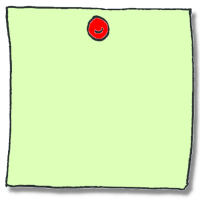
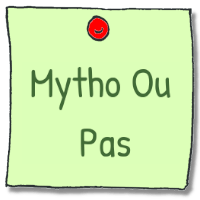
Change image webp into png

Changed region(s): [[0.15, 0.33, 0.6, 0.57], [0.39, 0.63, 0.66, 0.81], [0.66, 0.33, 0.87, 0.51]]

diff --git a/src/screens/criminals/InvestigationScreen.tsx b/src/screens/criminals/InvestigationScreen.tsx
@@ -92,8 +92,8 @@ const InvestigationScreen = () => {
     );
 
     return (
-        <View style={tw('flex-1')}>
-            <ImageBackground source={require('images/bg_corridor_dark.webp')} style={tw('flex-1')} resizeMode="cover">
+        <ImageBackground source={require('images/bg_corridor_dark.jpg')} style={tw('flex-1')} resizeMode="cover">
+            <SafeAreaView style={tw('flex-1')}>
                 <SafeAreaView style={tw('flex-1')}>
                     <ScrollView contentContainerStyle={tw("flex-grow justify-center items-center")} style={tw('w-full')} >
                         <CustomHeaderEmpty title="Enquête en cours" backgroundColor="bg-whiteTransparent" />
@@ -107,10 +107,10 @@ const InvestigationScreen = () => {
                                 >
                                     <Image
                                         source={require('images/unknown3.jpeg')}
-                                        style={[tw('w-64 h-56')]}
+                                        style={[tw('w-64 h-44')]}
                                         resizeMode="contain"
                                     />
-                                    <Text style={tw('text-center font-bold font-primary text-lg text-white')}>Taux de certitude par rapport au criminel: {investigationProgress}%</Text>
+                                    <Text style={tw('text-center font-primary text-lg text-white')}>Taux de certitude par rapport au criminel: {investigationProgress}%</Text>
                                     <View style={tw('bg-gray-300 h-4 rounded mt-2 w-96')}>
                                         <View
                                             style={[
@@ -124,7 +124,7 @@ const InvestigationScreen = () => {
                                         style={tw('bg-primary py-3 px-6 rounded mt-4')}
                                         onPress={() => setModalVisible(true)}
                                     >
-                                        <Text style={tw('text-white font-bold text-center font-primary')}>Tenter l'arrestation</Text>
+                                        <Text style={tw('text-white text-center font-primary')}>Tenter l'arrestation</Text>
                                     </TouchableOpacity>
                                 </View>
                             ) : (
@@ -135,70 +135,65 @@ const InvestigationScreen = () => {
 
                     </ScrollView>
                 </SafeAreaView>
-            </ImageBackground>
-            <CustomModal
-                isVisible={modalVisible}
-                onClose={() => setModalVisible(false)}
-            >
-                <View >
-                    <Text style={tw('text-lg font-primary')}>Etes-vous sûr de vouloir tenter l'arrestation?</Text>
-                    <Text style={tw('text-lg font-primary')}>Si celle-ci échoue, votre taux de certitude baissera de 15%.</Text>
-                    <TouchableOpacity onPress={handleArrestAttempt} style={tw('mt-5 bg-primary py-3 px-6 rounded self-center')}>
-                        <Text style={tw('text-white font-bold text-center font-primary')}>Je suis sûr de moi, je me lance</Text>
-                    </TouchableOpacity>
-                </View>
-            </CustomModal>
-
-            <CustomModal isVisible={resultModalVisible} onClose={() => setResultModalVisible(false)}>
-                {arrestSuccess === true ? (
-                    <>
-                        <Text style={tw('font-primary text-lg')}>
-                            {arrestDescription}
-                        </Text>
-                        <TouchableOpacity
-                            onPress={() => {
-                                setResultModalVisible(false);
-                                setTimeout(() => {
-                                    navigation.navigate('Criminels');
-                                }, 300);
-                            }}
-                            style={tw('mt-5 bg-primary py-3 px-6 rounded self-center')}
-                        >
-                            <Text style={tw('text-white font-bold text-center')}>Voir le criminel</Text>
+                <CustomModal
+                    isVisible={modalVisible}
+                    onClose={() => setModalVisible(false)}
+                >
+                    <View >
+                        <Text style={tw('text-lg font-primary')}>Etes-vous sûr de vouloir tenter l'arrestation?</Text>
+                        <Text style={tw('text-lg font-primary')}>Si celle-ci échoue, votre taux de certitude baissera de 15%.</Text>
+                        <TouchableOpacity onPress={handleArrestAttempt} style={tw('mt-5 bg-primary py-3 px-6 rounded self-center')}>
+                            <Text style={tw('text-white font-bold text-center font-primary')}>Je suis sûr de moi, je me lance</Text>
                         </TouchableOpacity>
-                    </>
-                ) : (
-                    <>
-                        <Text style={tw('font-primary text-lg')}>
-                            Il semblerait que la personne que vous avez arrêtée n'était pas la bonne. C'était une fausse piste, mais votre enquête continue !
-                        </Text>
-                    </>
-                )}
-            </CustomModal>
+                    </View>
+                </CustomModal>
 
-            <CustomModal
-                isVisible={isHelpModalVisible}
-                onClose={() => setIsHelpModalVisible(false)}
-            >
-                <View style={tw('flex-1')}>
-                    <ScrollView
-                        style={[tw('flex-1 max-w-3xl')]}
-                        contentContainerStyle={tw('p-4')}
-                        showsVerticalScrollIndicator={true}
-                        scrollEventThrottle={16}
-                    >
-                        <Text style={tw('font-primary')}>
-                            Ici, vous pouvez tenter d'arrêter des criminels.  {"\n"}
-                            Le taux de certitude correspond au pourcentage de chance de réussir.
-                            {"\n\n"}
-                            Si vous tentez l'arrestation mais que celle-ci échoue, votre taux de certitude baissera de 15. Si elle réussit, vous pourrez retrouver le criminel arrêté dans la page correspondante, et votre votre taux de certitude retombera à 0.
-                        </Text>
-                    </ScrollView>
-                </View>
-            </CustomModal>
+                <CustomModal isVisible={resultModalVisible} onClose={() => setResultModalVisible(false)}>
+                    {arrestSuccess === true ? (
+                        <>
+                            <Text style={tw('font-primary text-lg')}>
+                                {arrestDescription}
+                            </Text>
+                            <TouchableOpacity
+                                onPress={() => {
+                                    setResultModalVisible(false);
+                                    setTimeout(() => {
+                                        navigation.navigate('Criminels');
+                                    }, 300);
+                                }}
+                                style={tw('mt-5 bg-primary py-3 px-6 rounded self-center')}
+                            >
+                                <Text style={tw('text-white font-bold text-center')}>Voir le criminel</Text>
+                            </TouchableOpacity>
+                        </>
+                    ) : (
+                        <>
+                            <Text style={tw('font-primary text-lg')}>
+                                Il semblerait que la personne que vous avez arrêtée n'était pas la bonne. C'était une fausse piste, mais votre enquête continue !
+                            </Text>
+                        </>
+                    )}
+                </CustomModal>
 
-
-        </View>
+                <CustomModal
+                    isVisible={isHelpModalVisible}
+                    onClose={() => setIsHelpModalVisible(false)}
+                >
+                    <View style={tw('h-40')}>
+                        <ScrollView style={[tw('flex-1'), { maxHeight: window.height * 0.8 }]}>
+                            <View style={tw('p-4')}>
+                                <Text style={tw('font-primary')}>
+                                    Ici, vous pouvez tenter d'arrêter des criminels.  {"\n"}
+                                    Le taux de certitude correspond au pourcentage de chance de réussir.
+                                    {"\n\n"}
+                                    Si vous tentez l'arrestation mais que celle-ci échoue, votre taux de certitude baissera de 15. Si elle réussit, vous pourrez retrouver le criminel arrêté dans la page correspondante, et votre votre taux de certitude retombera à 0.
+                                </Text>
+                            </View>
+                        </ScrollView>
+                    </View>
+                </CustomModal>
+            </SafeAreaView>
+        </ImageBackground>
     );
 };
 export default InvestigationScreen;

diff --git a/src/screens/MainBoardScreen.tsx b/src/screens/MainBoardScreen.tsx
@@ -173,7 +173,7 @@ const MainBoardScreen = ({ }) => {
         <View style={{ flex: 1 }}>
             {isLoading && <Loader />}
             <ImageBackground
-                source={require('images/bg_desk_smaller.webp')}
+                source={require('images/bg_desk_smaller.jpg')}
                 onLoadEnd={loaderClose}
                 style={[tw('flex-1 relative'), StyleSheet.absoluteFill]}
             >
@@ -277,13 +277,6 @@ const MainBoardScreen = ({ }) => {
                                             width: windowWidth * 0.07, height: windowWidth * 0.07, minWidth: 65, minHeight: 65,
                                         }}
                                     />
-                                    <Text style={[tw('font-secondary absolute bottom-[37%] w-full text-center text-[#236087]'),
-                                    {
-                                        fontSize: responsiveFontSize(17)
-                                    }
-                                    ]}>
-                                        Mytho-Typo
-                                    </Text>
                                     {tutorialsCompleted && !tutorialsCompleted["MythoTypo"] &&
                                         <IconNotification
                                             size={iconSize}
@@ -308,11 +301,6 @@ const MainBoardScreen = ({ }) => {
                                     }}
                                     resizeMode="contain"
                                 />
-                                <Text style={{
-                                    ...tw('absolute bottom-[14%] left-[1px] w-full text-center font-secondary text-[#416B36]'),
-                                    fontSize: responsiveFontSize(20)
-                                }}>Mytho Ou {"\n"}
-                                    Pas</Text>
                                 {tutorialsCompleted && !tutorialsCompleted["MythoOuPas"] &&
                                     <IconNotification
                                         size={iconSize}
@@ -333,10 +321,6 @@ const MainBoardScreen = ({ }) => {
                                     width: windowWidth * 0.07, height: windowWidth * 0.07, minWidth: 65, minHeight: 65,
 
                                 }} />
-                                <Text style={{
-                                    ...tw('absolute bottom-[37%] w-full text-center font-secondary text-[#236087]'),
-                                    fontSize: responsiveFontSize(19)
-                                }}>Mytho-No</Text>
                                 {tutorialsCompleted && !tutorialsCompleted["MythoNo"] &&
                                     <IconNotification
                                         size={iconSize}
@@ -354,7 +338,7 @@ const MainBoardScreen = ({ }) => {
                                 width: windowWidth * 0.25,
                                 height: windowWidth * 0.16,
                             }}>
-                                <Image source={require('images/tabs_winners.webp')} style={{
+                                <Image source={require('images/tabs_winners.png')} style={{
                                     width: windowWidth * 0.25,
                                     height: windowWidth * 0.16,
                                     resizeMode: 'contain',

diff --git a/src/screens/settingsScreens/SettingsScreen.tsx b/src/screens/settingsScreens/SettingsScreen.tsx
@@ -4,13 +4,14 @@ import { useTailwind } from "tailwind-rn";
 import PrimaryButton from "components/PrimaryButton";
 import CustomHeaderEmpty from "components/header/CustomHeaderEmpty";
 import { useAuth } from "services/context/AuthContext";
+import LogoutButton from "components/LogoutButton";
 
 const SettingsScreen = ({ }) => {
     const tw = useTailwind();
     const { authState } = useAuth();
 
     return (
-        <ImageBackground source={require('images/bg_corridor_dark.webp')} style={tw('flex-1')}>
+        <ImageBackground source={require('images/bg_corridor.jpg')} style={tw('flex-1')}>
             <View style={tw("flex-1 ")}>
                 <ScrollView contentContainerStyle={tw("flex-grow justify-center items-center")} style={tw('w-full')}>
                     <CustomHeaderEmpty title="Paramètres" backgroundColor="bg-whiteTransparent" />
@@ -22,11 +23,11 @@ const SettingsScreen = ({ }) => {
                                 <PrimaryButton title="Aide et contact" destination="Aide" />
                                 <PrimaryButton title="Politique de confidentialité" destination="PolitiqueDeConfidentialite" />
 
-                                {/* {authState.isAuthenticated &&
+                                {authState.isAuthenticated &&
                                     <View>
-                                        <PrimaryButton title="Notifications" destination="Notif" />
+                                        <LogoutButton />
                                     </View>
-                                } */}
+                                }
                             </View>
                         </View>
                     </View>

diff --git a/src/screens/gamesScreens/MythoOuPasScreen.tsx b/src/screens/gamesScreens/MythoOuPasScreen.tsx
@@ -535,7 +535,7 @@ const MythoOuPasScreen = () => {
 
 
   return (
-    <ImageBackground source={require('images/bg_room_2.webp')} style={tw('flex-1')}>
+    <ImageBackground source={require('images/bg_room_2.jpg')} style={tw('flex-1')}>
       <SafeAreaView style={tw("flex-1")}>
         <ScrollView ref={scrollViewRef}>
           <CustomHeaderInGame title="Mytho ou pas" backgroundColor="bg-whiteTransparent" />
@@ -745,7 +745,7 @@ const MythoOuPasScreen = () => {
                     setIsModalPlausibilityVisible(true);
                     setUserRateSelected(50);
                   }}  >
-                  <AntDesign name="question" size={30} color="orange" />
+                  <Entypo name="minus" size={24} color="orange" />
                 </TouchableOpacity>
 
                 <TouchableOpacity style={tw('items-center justify-center rounded-full w-12 h-12 md:w-14 md:h-14 my-auto bg-green-50')}

diff --git a/src/screens/gamesScreens/MythoTypoScreen.tsx b/src/screens/gamesScreens/MythoTypoScreen.tsx
@@ -361,7 +361,7 @@ const MythoTypoScreen = ({ }) => {
   };
 
   return (
-    <ImageBackground source={require('images/bg_room_1.webp')} style={tw('flex-1')}>
+    <ImageBackground source={require('images/bg_room_1.jpg')} style={tw('flex-1')}>
       <SafeAreaView style={tw("flex-1")}>
         <ScrollView>
           <CustomHeaderInGame title="Mytho-Typo" backgroundColor="bg-whiteTransparent" />
@@ -426,7 +426,7 @@ const MythoTypoScreen = ({ }) => {
               style={tw("bg-primary py-2 px-4 flex-row items-center justify-center rounded-full")}
               onPress={onNextCard}
             >
-              <Text style={tw("text-white text-lg font-primary")}>Erreur suivante</Text>
+              <Text style={tw("text-white text-lg font-primary")}>Cas suivant</Text>
               <MaterialIcons name="navigate-next" size={24} color={'white'} />
             </TouchableOpacity>
           </View>

diff --git a/src/screens/profilScreens/AchievementsScreen.tsx b/src/screens/profilScreens/AchievementsScreen.tsx
@@ -26,7 +26,7 @@ const AchievementsScreen = () => {
 
     return (
         <ImageBackground
-            source={require('images/bg_bureau.webp')}
+            source={require('images/bg_office.jpg')}
             style={tw("absolute bottom-0 left-0 w-full h-full")}
             resizeMode="cover"
         >
@@ -48,7 +48,7 @@ const AchievementsScreen = () => {
                     </View>
                 )}
                 keyExtractor={(item) => item.id.toString()}
-                contentContainerStyle={tw('p-4')}
+                contentContainerStyle={tw('pb-20')} 
             />
         </ImageBackground>
 

diff --git a/src/screens/authScreens/ForgetPasswordScreen.tsx b/src/screens/authScreens/ForgetPasswordScreen.tsx
@@ -38,7 +38,7 @@ const ForgetPasswordScreen = () => {
     };
 
     return (
-        <ImageBackground source={require('images/bg_room_1.webp')} style={tw('absolute bottom-0 left-0 w-full h-full')}>
+        <ImageBackground source={require('images/bg_room_1.jpg')} style={tw('absolute bottom-0 left-0 w-full h-full')}>
             <View style={tw("flex-1 items-center")}>
                 <ScrollView contentContainerStyle={tw("flex-grow justify-center items-center")} style={tw('w-full')}>
                     <CustomHeaderEmpty title="Mot de passe oublié" backgroundColor="bg-whiteTransparent" />

diff --git a/src/screens/settingsScreens/HelpScreen.tsx b/src/screens/settingsScreens/HelpScreen.tsx
@@ -59,7 +59,7 @@ const HelpScreen = () => {
   };
 
   return (
-    <ImageBackground source={require('images/bg_corridor_dark.webp')} style={tw('absolute bottom-0 left-0 w-full h-full')}>
+    <ImageBackground source={require('images/bg_corridor.jpg')} style={tw('absolute bottom-0 left-0 w-full h-full')}>
       <ScrollView contentContainerStyle={tw("flex-grow justify-center items-center")} style={tw('w-full')}>
         <CustomHeaderEmpty title="Aide et contact" backgroundColor="bg-whiteTransparent" />
         <View style={tw('mx-auto w-full max-w-[640px] pt-20 items-center')}>

diff --git a/src/screens/authScreens/SignUpScreen.tsx b/src/screens/authScreens/SignUpScreen.tsx
@@ -155,7 +155,7 @@ const SignUpScreen = () => {
 
 
     return (
-        <ImageBackground source={require('images/bg_bureau.webp')} style={tw('absolute bottom-0 left-0 w-full h-full')}>
+        <ImageBackground source={require('images/bg_office.jpg')} style={tw('absolute bottom-0 left-0 w-full h-full')}>
             <View style={tw("flex-1 items-center")}>
                 <ScrollView contentContainerStyle={tw("flex-grow justify-center items-center")} style={tw('w-full')}>
                     <CustomHeaderEmpty title="Inscription" backgroundColor="bg-whiteTransparent" />

diff --git a/src/screens/authScreens/SignInScreen.tsx b/src/screens/authScreens/SignInScreen.tsx
@@ -54,7 +54,7 @@ const LoginScreen = () => {
 
     return (
 
-        <ImageBackground source={require('images/bg_room_1.webp')} style={tw('absolute bottom-0 left-0 w-full h-full')}>
+        <ImageBackground source={require('images/bg_room_1.jpg')} style={tw('absolute bottom-0 left-0 w-full h-full')}>
             <View style={tw("flex-1 items-center")}>
                 <ScrollView contentContainerStyle={tw("flex-grow justify-center items-center")} style={tw('w-full')}>
                     <CustomHeaderEmpty title="Connexion" backgroundColor="bg-whiteTransparent" />

diff --git a/src/screens/settingsScreens/AboutScreen.tsx b/src/screens/settingsScreens/AboutScreen.tsx
@@ -10,7 +10,7 @@ const AboutScreen = ({ }) => {
   const navigation = useNavigation<RootStackNavigationProp<"ReglesDuJeu">>();
 
   return (
-    <ImageBackground source={require('images/bg_corridor_dark.webp')} style={tw('absolute bottom-0 left-0 w-full h-full')}>
+    <ImageBackground source={require('images/bg_corridor.jpg')} style={tw('absolute bottom-0 left-0 w-full h-full')}>
 
       <View style={tw("flex-1 items-center text-black")}>
         <ScrollView contentContainerStyle={tw("flex-grow justify-center items-center")} style={tw('w-full')}>

diff --git a/src/screens/settingsScreens/GameRulesScreen.tsx b/src/screens/settingsScreens/GameRulesScreen.tsx
@@ -8,7 +8,7 @@ const GameRulesScreen = ({ }) => {
     const tw = useTailwind();
 
     return (
-        <ImageBackground source={require('images/bg_corridor_dark.webp')} style={tw('flex-1')}>
+        <ImageBackground source={require('images/bg_corridor.jpg')} style={tw('flex-1')}>
             <View style={tw("flex-1 items-center text-black")}>
                 <ScrollView style={tw('w-full')}>
                     <CustomHeaderEmpty title="Règles du jeu et explications" backgroundColor="bg-whiteTransparent" />
